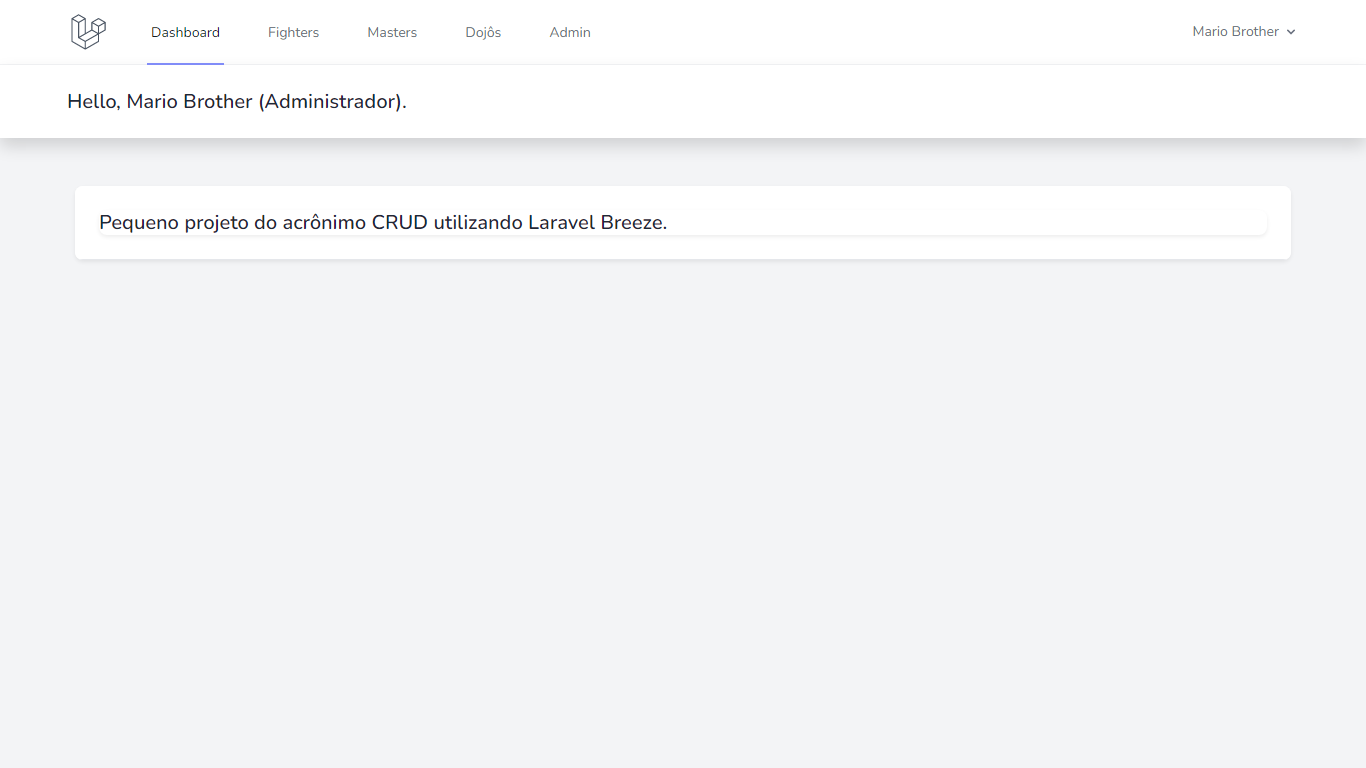
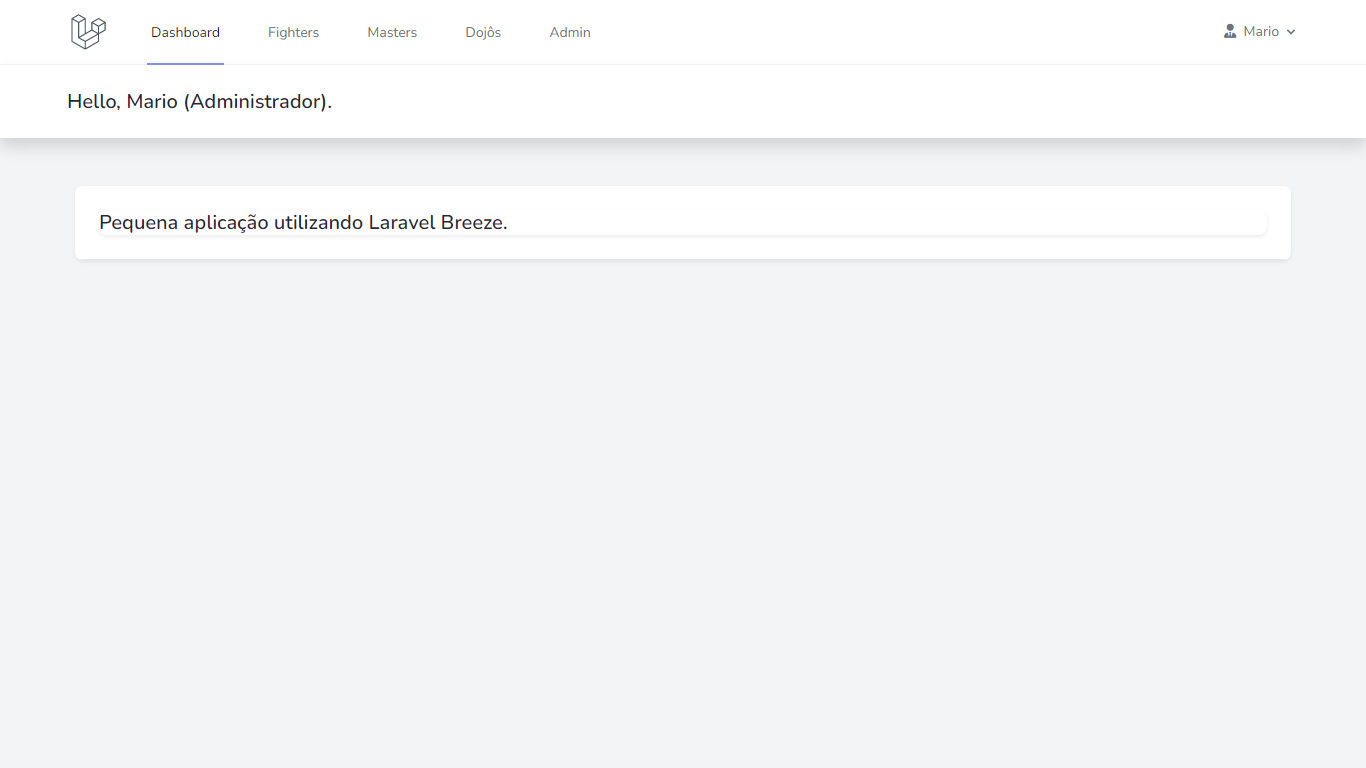
Changing images in README.md

Changed region(s): [[0.123, 0.2812, 0.4919, 0.3125], [0.123, 0.125, 0.3075, 0.1562], [0.8609, 0.0312, 0.9531, 0.0625]]

diff --git a/resources/views/dashboard.blade.php b/resources/views/dashboard.blade.php
@@ -16,7 +16,7 @@
                 <div class="p-6 bg-white border-b border-gray-200">
                     <div class="bg-white overflow-hidden shadow-sm sm:rounded-lg">
                         <h2 class="font-semibold text-xl text-gray-800 leading-tight">
-                            {{ __('Pequeno projeto do acrônimo CRUD utilizando Laravel Breeze.')}}    
+                            {{ __('Pequena aplicação utilizando Laravel Breeze.')}}    
                         </h2>
                     </div>
                 </div>

diff --git a/README.md b/README.md
@@ -36,3 +36,6 @@
 
 ## Admin (Admin)
 ![](https://github.com/Iury189/street_breeze/blob/main/public/imagens/Admin.png?raw=true)
+
+## Change Password (User and Admin)
+![](https://github.com/Iury189/street_breeze/blob/main/public/imagens/ChangePassword.png?raw=true)
